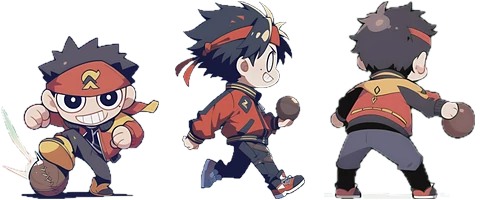
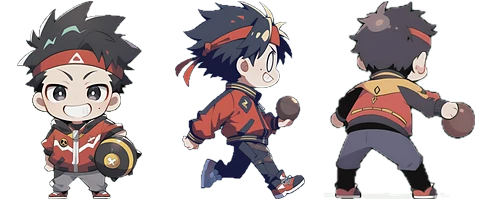
More painted characters

Changed region(s): [[0.0, 0.0, 0.3438, 1.0]]

diff --git a/js/ai_art.js b/js/ai_art.js
@@ -1,3 +1,3 @@
 // generated by tools/ai_art.py: the characters with AI-painted art in assets/ai/ (id -> file hash). Do not edit by hand.
 export const AI_POR = {"yirui": "08ca0b71", "yishuo": "02f4e8ad", "xiaotian": "1658b3dd", "liuhanyan": "65eccfa5", "kuchan": "ac3e3f03", "tuqianqiu": "546ec721", "wudadan": "631fdd73", "wenduizhang": "ec54b57a", "chutiankuo": "c915c384", "niubaobao": "29a50659", "huotianxia": "4dfa5385", "aman": "2ba84aee", "baixian": "6ae763aa", "jiabafang": "6762be47", "hubanxian": "0cfaba2b", "heixiong": "2c230841", "daoba": "65dfe3ea", "shouhou": "655d6562"};
-export const AI_FIG = {"yirui": "dbdf6027", "yishuo": "e1a3e1b3", "xiaotian": "4de0dd41", "liuhanyan": "1d002223", "kuchan": "3661ee53", "tuqianqiu": "89c82e62", "wudadan": "27119185", "wenduizhang": "93c1f9fa", "chutiankuo": "85e129bb", "niubaobao": "5c5ca1f0", "huotianxia": "a3b7d107", "aman": "239723e2", "baixian": "ce23e428", "jiabafang": "6c1f6e6c", "hubanxian": "2174d4d7", "heixiong": "70d54c0e", "daoba": "1b7ea980", "shouhou": "40bb8be0"};
+export const AI_FIG = {"yirui": "dbdf6027", "yishuo": "f908914e", "xiaotian": "4de0dd41", "liuhanyan": "1d002223", "kuchan": "3661ee53", "tuqianqiu": "89c82e62", "wudadan": "27119185", "wenduizhang": "93c1f9fa", "chutiankuo": "85e129bb", "niubaobao": "5c5ca1f0", "huotianxia": "a3b7d107", "aman": "239723e2", "baixian": "ce23e428", "jiabafang": "6c1f6e6c", "hubanxian": "2174d4d7", "heixiong": "70d54c0e", "daoba": "1b7ea980", "shouhou": "40bb8be0"};
